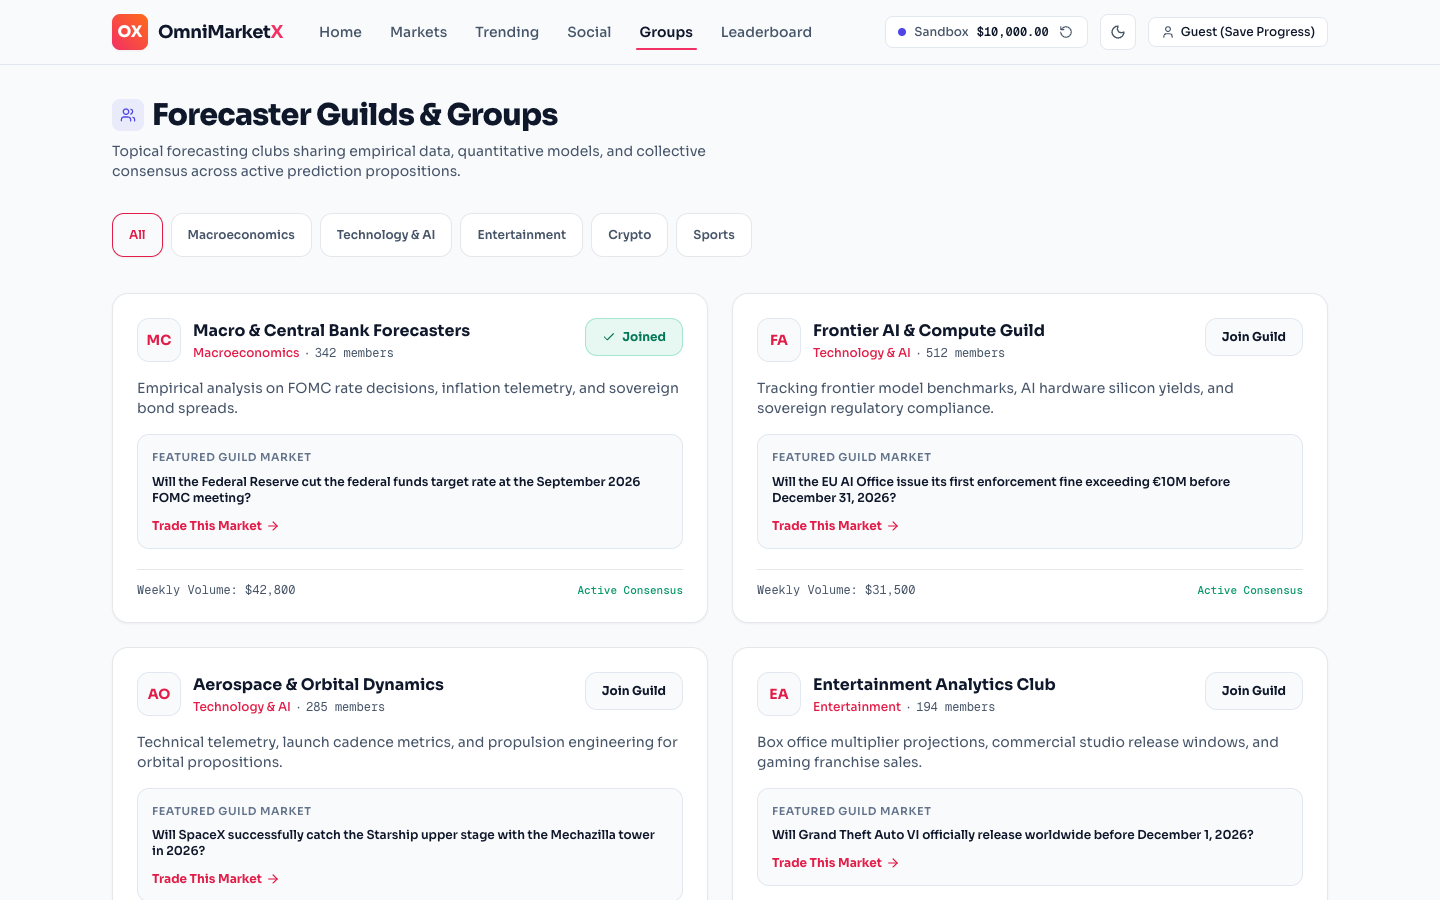
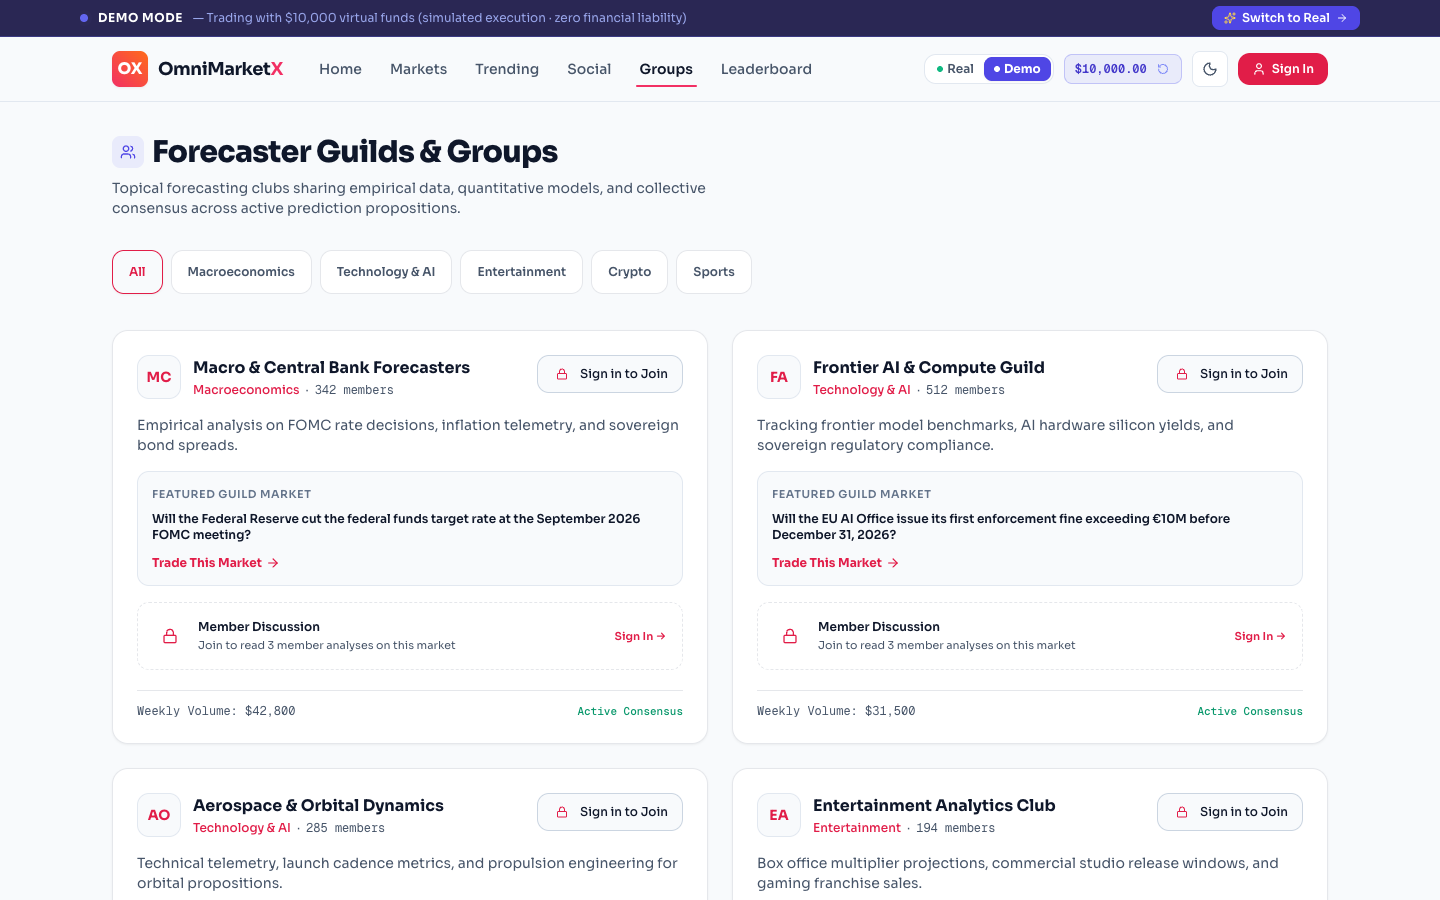
fix(groups): polish sign-in button and responsive layout on group cards

diff --git a/web-2.0/src/pages/GroupsPage.tsx b/web-2.0/src/pages/GroupsPage.tsx
@@ -3,12 +3,11 @@ import { Users, ArrowRight, Check, Lock, MessageSquare, Send } from 'lucide-reac
 import { INITIAL_GROUPS, type Group, type GroupDiscussion } from '../data/groups';
 import { useRouter } from '../context/RouterContext';
 import { useAuth } from '../context/AuthContext';
-import { AuthGate } from '../components/common/AuthGate';
 
 type CategoryFilter = 'All' | 'Macroeconomics' | 'Technology & AI' | 'Entertainment' | 'Crypto' | 'Sports';
 
 export const GroupsPage: React.FC = () => {
-  const { navigate } = useRouter();
+  const { navigate, openAuthModal, currentPath } = useRouter();
   const { isAuthenticated } = useAuth();
 
   const [groups, setGroups] = useState<Group[]>(INITIAL_GROUPS);
@@ -128,34 +127,40 @@ export const GroupsPage: React.FC = () => {
                     </div>
                   </div>
 
-                  {/* Join / Joined / Leave Button */}
+                  {/* Join / Joined / Sign In Button */}
                   {group.isJoined ? (
                     <button
                       type="button"
                       onClick={() => handleToggleJoin(group.id)}
-                      className="min-h-[38px] px-4 py-1.5 rounded-xl text-xs font-sora font-bold transition-all cursor-pointer flex items-center space-x-1.5 shrink-0 border border-emerald-500/30 bg-emerald-500/10 text-emerald-700 dark:text-emerald-400"
+                      className="min-h-[38px] px-3.5 sm:px-4 py-1.5 rounded-xl text-xs font-sora font-bold transition-all cursor-pointer flex items-center space-x-1.5 shrink-0 border border-emerald-500/30 bg-emerald-500/10 text-emerald-700 dark:text-emerald-400 hover:bg-emerald-500/20"
                     >
                       <Check className="h-3.5 w-3.5" />
                       <span>Joined</span>
                     </button>
                   ) : !isAuthenticated ? (
-                    <AuthGate
-                      variant="inline"
-                      inlineMessage="Sign in to join guild"
-                      actionLabel={`join ${group.name}`}
+                    <button
+                      type="button"
+                      onClick={() =>
+                        openAuthModal({
+                          route: currentPath,
+                          action: 'generic',
+                          actionLabel: `join ${group.name}`,
+                        })
+                      }
+                      className="min-h-[38px] px-3.5 py-1.5 rounded-xl text-xs font-sora font-semibold transition-all cursor-pointer flex items-center space-x-2 shrink-0 border border-omx-border-strong bg-omx-bg hover:border-omx-brand hover:bg-omx-brand/5 hover:text-omx-brand text-omx-text shadow-xs active:scale-[0.98] group/btn"
+                      title="Sign in to join guild"
+                      aria-label={`Sign in to join ${group.name}`}
                     >
-                      <button
-                        type="button"
-                        className="min-h-[38px] px-4 py-1.5 rounded-xl text-xs font-sora font-bold transition-all cursor-pointer flex items-center space-x-1.5 shrink-0 border border-omx-border bg-omx-bg hover:border-omx-brand hover:text-omx-brand text-omx-text"
-                      >
-                        <span>Join Guild</span>
-                      </button>
-                    </AuthGate>
+                      <span className="flex h-5 w-5 items-center justify-center rounded-md bg-omx-brand/10 text-omx-brand group-hover/btn:bg-omx-brand group-hover/btn:text-white transition-colors">
+                        <Lock className="h-3 w-3" />
+                      </span>
+                      <span className="whitespace-nowrap font-medium">Sign in to Join</span>
+                    </button>
                   ) : (
                     <button
                       type="button"
                       onClick={() => handleToggleJoin(group.id)}
-                      className="min-h-[38px] px-4 py-1.5 rounded-xl text-xs font-sora font-bold transition-all cursor-pointer flex items-center space-x-1.5 shrink-0 border border-omx-border bg-omx-bg hover:border-omx-brand hover:text-omx-brand text-omx-text"
+                      className="min-h-[38px] px-4 py-1.5 rounded-xl text-xs font-sora font-bold transition-all cursor-pointer flex items-center space-x-1.5 shrink-0 border border-omx-border bg-omx-bg hover:border-omx-brand hover:text-omx-brand text-omx-text shadow-xs active:scale-[0.98]"
                     >
                       <span>Join Guild</span>
                     </button>
@@ -263,18 +268,52 @@ export const GroupsPage: React.FC = () => {
                   </div>
                 ) : (
                   /* === NON-MEMBER VIEW: locked discussion preview === */
-                  <div className="rounded-xl border border-dashed border-omx-border-strong/60 bg-omx-bg/50 p-4 flex items-center space-x-3">
-                    <div className="flex h-8 w-8 items-center justify-center rounded-lg bg-indigo-500/10 text-indigo-500 shrink-0">
-                      <Lock className="h-4 w-4" />
+                  <div
+                    onClick={() => {
+                      if (!isAuthenticated) {
+                        openAuthModal({
+                          route: currentPath,
+                          action: 'generic',
+                          actionLabel: `join ${group.name}`,
+                        });
+                      } else {
+                        handleToggleJoin(group.id);
+                      }
+                    }}
+                    role="button"
+                    tabIndex={0}
+                    onKeyDown={(e) => {
+                      if (e.key === 'Enter' || e.key === ' ') {
+                        e.preventDefault();
+                        if (!isAuthenticated) {
+                          openAuthModal({
+                            route: currentPath,
+                            action: 'generic',
+                            actionLabel: `join ${group.name}`,
+                          });
+                        } else {
+                          handleToggleJoin(group.id);
+                        }
+                      }
+                    }}
+                    className="rounded-xl border border-dashed border-omx-border-strong/70 bg-omx-bg/60 hover:bg-omx-card hover:border-omx-brand/50 p-4 flex items-center justify-between gap-3 cursor-pointer transition-all group/disc"
+                  >
+                    <div className="flex items-center space-x-3 min-w-0">
+                      <div className="flex h-8 w-8 items-center justify-center rounded-lg bg-omx-brand/10 text-omx-brand group-hover/disc:bg-omx-brand group-hover/disc:text-white shrink-0 transition-colors">
+                        <Lock className="h-4 w-4" />
+                      </div>
+                      <div className="min-w-0">
+                        <p className="text-xs font-sora font-semibold text-omx-text group-hover/disc:text-omx-brand transition-colors">
+                          Member Discussion
+                        </p>
+                        <p className="text-[11px] text-omx-text-secondary mt-0.5 truncate">
+                          Join to read {group.discussions?.length ?? 0} member analyses on this market
+                        </p>
+                      </div>
                     </div>
-                    <div className="min-w-0">
-                      <p className="text-xs font-sora font-semibold text-omx-text">
-                        Member Discussion
-                      </p>
-                      <p className="text-[11px] text-omx-text-secondary mt-0.5">
-                        Join to read {group.discussions?.length ?? 0} member analyses on this market
-                      </p>
-                    </div>
+                    <span className="text-[11px] font-sora font-semibold text-omx-brand shrink-0 group-hover/disc:underline">
+                      {isAuthenticated ? 'Join' : 'Sign In'} →
+                    </span>
                   </div>
                 )}
               </div>

diff --git a/web-2.0/src/components/layout/Navbar.tsx b/web-2.0/src/components/layout/Navbar.tsx
@@ -133,7 +133,7 @@ export const Navbar: React.FC = () => {
         {/* Right Action Utilities */}
         <div className="flex items-center space-x-2 sm:space-x-2.5">
           {/* Two-state segmented control [ Real | Demo ] */}
-          <div className="flex items-center rounded-xl border border-omx-border bg-omx-card p-0.5 text-xs font-sora font-semibold shrink-0">
+          <div className="hidden sm:flex items-center rounded-xl border border-omx-border bg-omx-card p-0.5 text-xs font-sora font-semibold shrink-0">
             <button
               type="button"
               onClick={() => handleModeClick('real')}
@@ -163,7 +163,7 @@ export const Navbar: React.FC = () => {
           </div>
 
           {/* Mode-Aware Balance Capsule with 3D Flip & Cross-fade Transition */}
-          <div className="perspective-container">
+          <div className="perspective-container hidden sm:block">
             <div
               className={`mode-flip-box ${
                 isModeTransitioning ? 'mode-flip-transitioning' : 'mode-flip-settled'

diff --git a/web-2.0/src/components/common/AuthGate.tsx b/web-2.0/src/components/common/AuthGate.tsx
@@ -123,8 +123,8 @@ export const AuthGate: React.FC<AuthGateProps> = ({
       </div>
 
       {/* Floating inline lock pill */}
-      <div className="absolute inset-0 flex items-center justify-center p-2">
-        <div className="flex items-center space-x-1.5 rounded-full border border-omx-border bg-omx-bg/95 backdrop-blur-md px-3 py-1.5 text-xs font-sora font-semibold text-omx-text shadow-md group-hover:border-omx-brand group-hover:text-omx-brand transition-all">
+      <div className="absolute inset-0 flex items-center justify-center p-2 pointer-events-none">
+        <div className="flex items-center space-x-1.5 rounded-full border border-omx-border bg-omx-bg/95 backdrop-blur-md px-3 py-1.5 text-xs font-sora font-semibold text-omx-text shadow-md group-hover:border-omx-brand group-hover:text-omx-brand transition-all whitespace-nowrap">
           <Lock className="h-3.5 w-3.5 text-omx-brand shrink-0" />
           <span>{inlineMessage}</span>
         </div>
